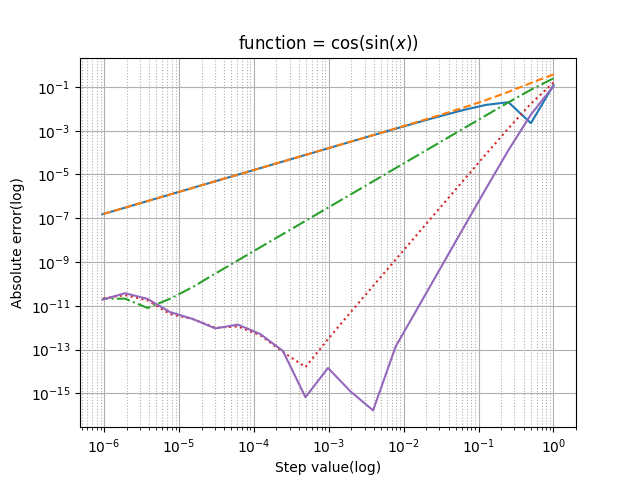
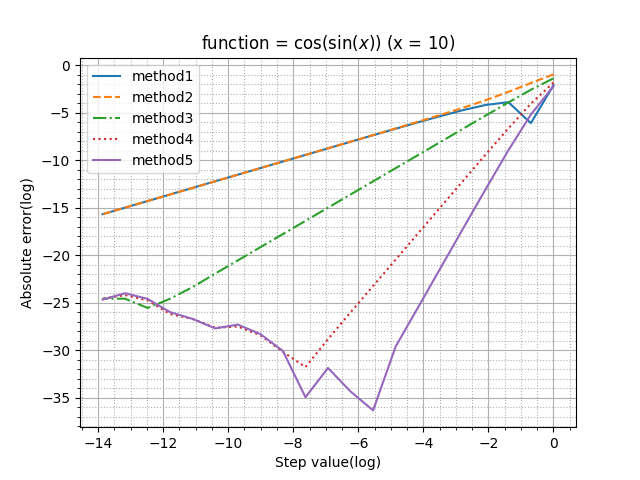
legend added, grid issue fixed

Changed region(s): [[0.0, 0.0625, 0.9062, 1.0], [0.0312, 0.7188, 0.125, 0.75]]

diff --git a/lab1/lab.py b/lab1/lab.py
@@ -76,19 +76,18 @@ for func, i in zip(funcs, range(1, 6)):
         y = [calc_diff(x, h, method, func) for h in steps]
         y_list.append(y)
     
-    plt.title("function = " + func.name)
+    plt.title("function = " + func.name + " (x = " + str(x) + ")")
     plt.ylabel("Absolute error(log)")
     plt.xlabel("Step value(log)")
     
     plt.minorticks_on()
     plt.grid(which='major')
     plt.grid(which='minor', linestyle=':')
-    
-    plt.semilogx()
-    plt.semilogy()
-    
-    plt.plot(steps, y_list[0], '-', steps, y_list[1], '--', steps, y_list[2], '-.', steps, \
-             y_list[3], ':', steps, y_list[4])
+
+    plt.plot(np.log(steps), np.log(y_list[0]), '-', np.log(steps), np.log(y_list[1]), '--', \
+             np.log(steps), np.log(y_list[2]), '-.', np.log(steps), np.log(y_list[3]), ':', \
+             np.log(steps), np.log(y_list[4]))
+    plt.legend(('method1', 'method2', 'method3', 'method4', 'method5'))
     
     plt.savefig("graphs/funcGraph" + str(i) + ".png")
     plt.show()
